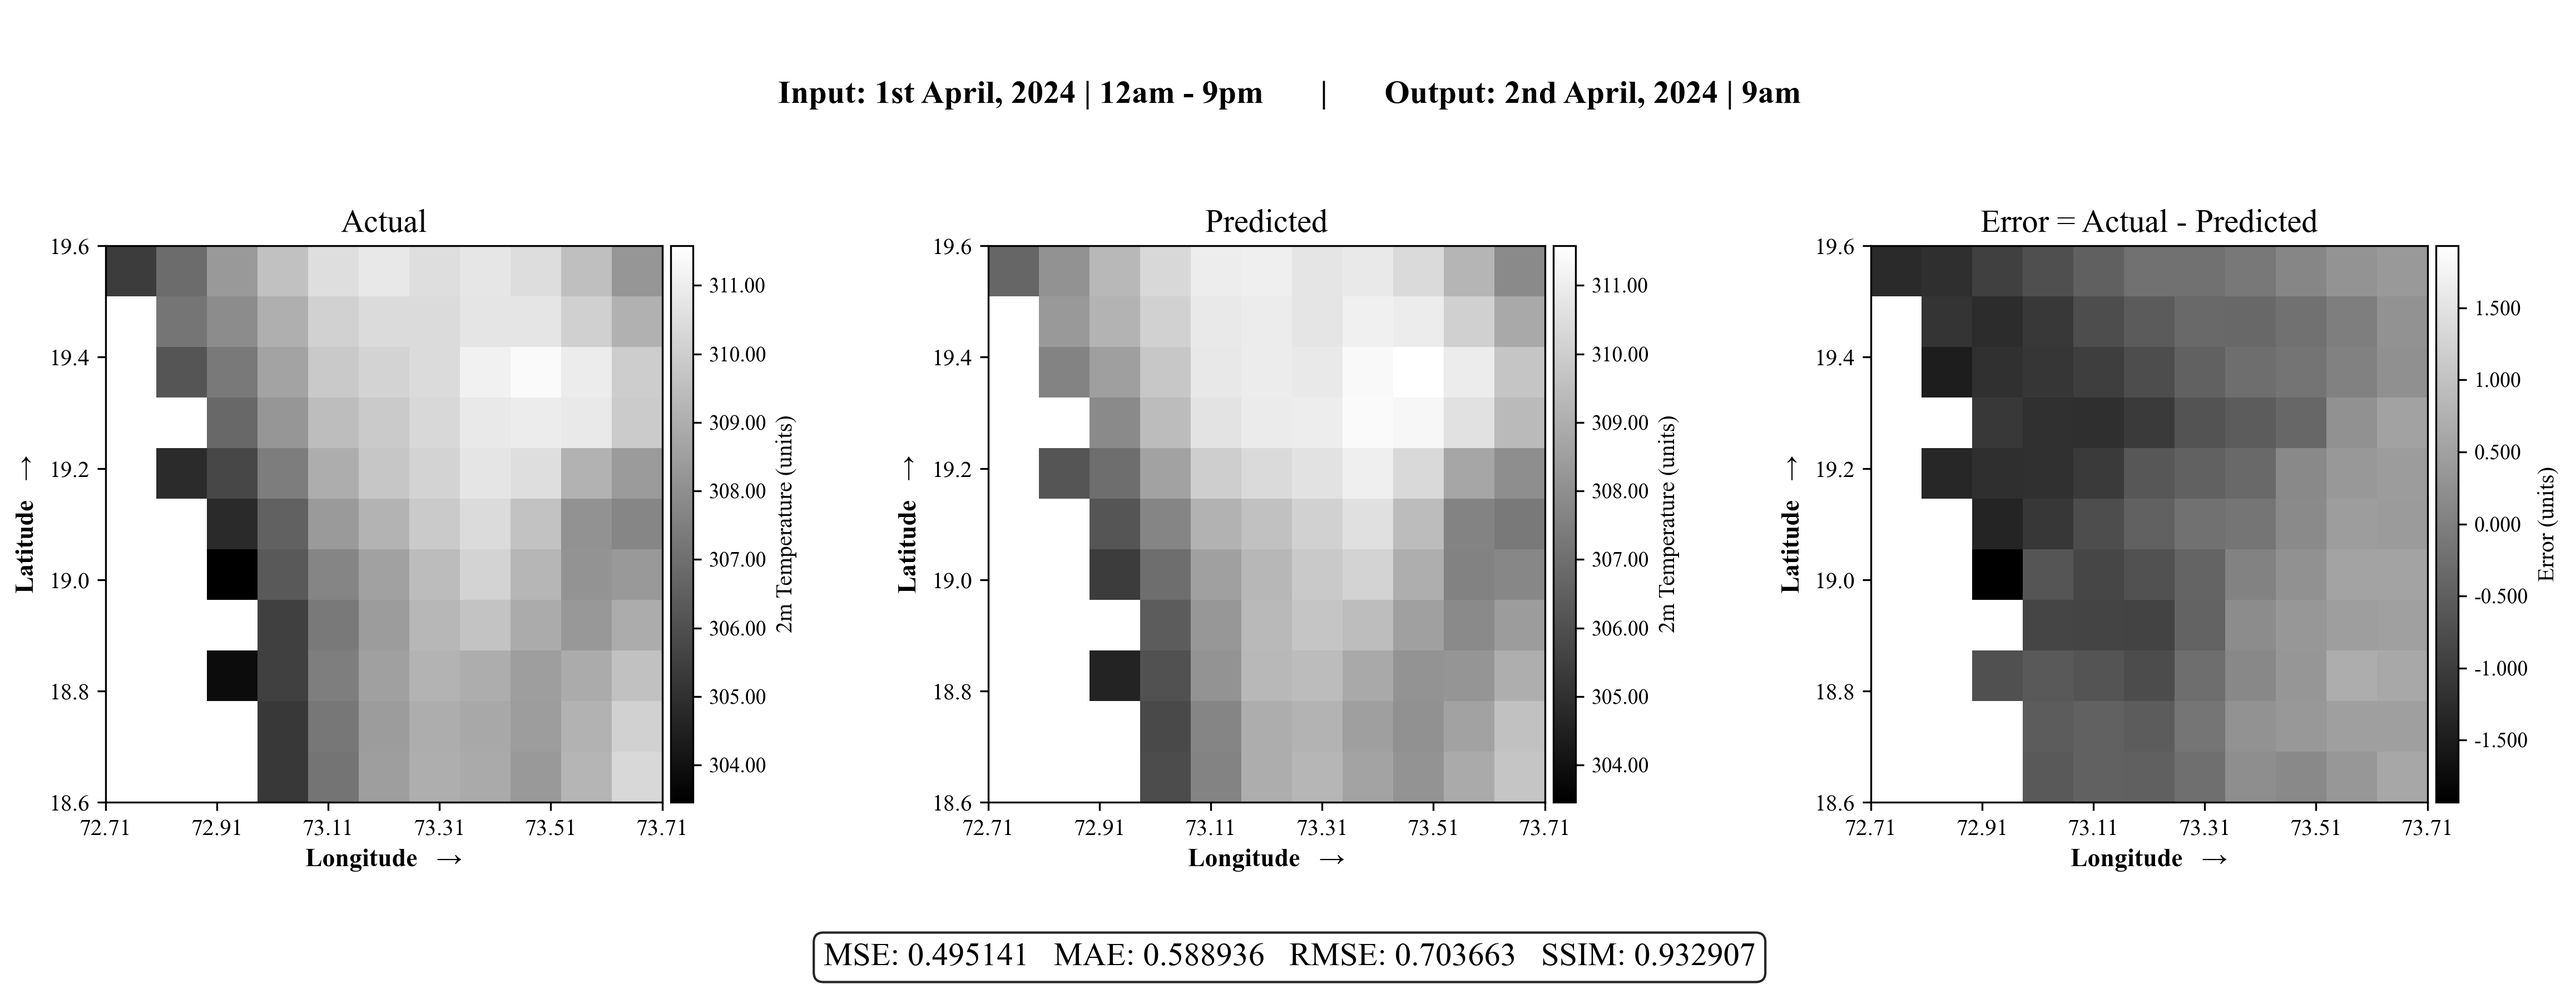
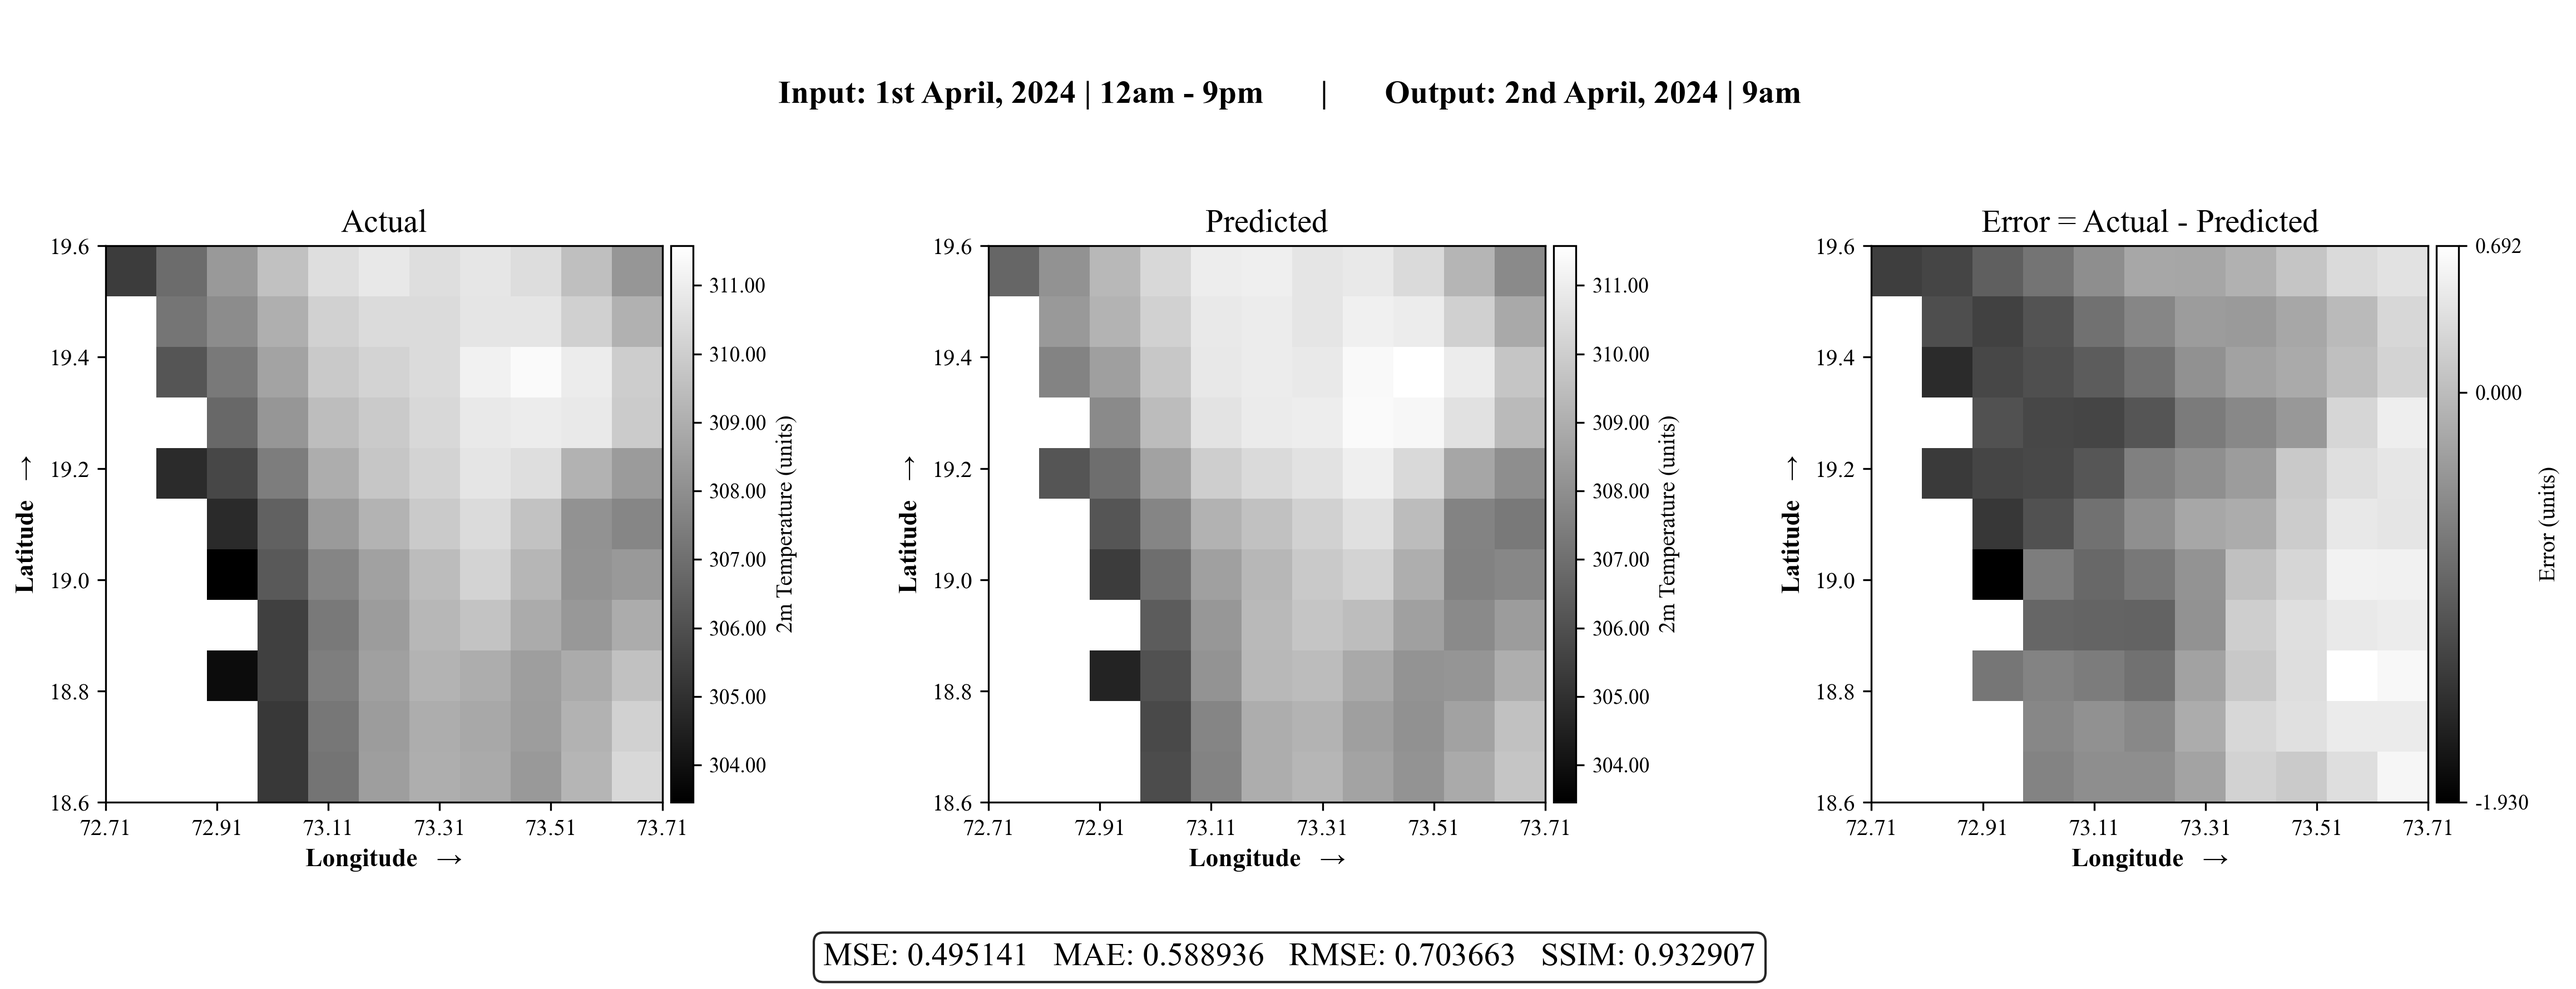
Changed output plot format

diff --git a/Models/ConvLSTM_Sliding_v1/ConvLSTM_Sliding_v1.py b/Models/ConvLSTM_Sliding_v1/ConvLSTM_Sliding_v1.py
@@ -1,4 +1,4 @@
-# improved_conv_lstm_sampled_with_ssim_on_plot.py
+# improved_conv_lstm_sampled_with_ssim_on_plot_error_cbar_min_zero_max.py
 import os
 import numpy as np
 from netCDF4 import Dataset
@@ -462,7 +462,9 @@ if preds.size:
     # compute SSIM averaged over validation samples (land-only via sea fill trick)
     mean_ssim_val = compute_mean_ssim(preds, actuals, dataset.sea_mask)
     if mean_ssim_val is None:
-        print("Model VAL SSIM (land-only): SSIM not computed (scikit-image missing or no preds).")
+        print(
+            "Model VAL SSIM (land-only): SSIM not computed (scikit-image missing or no preds)."
+        )
     else:
         print(f"Model VAL SSIM (land-only): SSIM={mean_ssim_val:.6f}")
 else:
@@ -506,7 +508,9 @@ if pers_preds.size:
     # SSIM for persistence baseline (land-only)
     mean_ssim_pers = compute_mean_ssim(pers_preds, pers_actuals, dataset.sea_mask)
     if mean_ssim_pers is None:
-        print("Persistence VAL SSIM (land-only): SSIM not computed (scikit-image missing or no preds).")
+        print(
+            "Persistence VAL SSIM (land-only): SSIM not computed (scikit-image missing or no preds)."
+        )
     else:
         print(f"Persistence VAL SSIM (land-only): SSIM={mean_ssim_pers:.6f}")
 else:
@@ -557,7 +561,9 @@ if preds.size:
     # SSIM for bias-corrected preds (land-only)
     mean_ssim_corr = compute_mean_ssim(preds_corrected, actuals, dataset.sea_mask)
     if mean_ssim_corr is None:
-        print("Bias-corrected VAL SSIM (land-only): SSIM not computed (scikit-image missing or no preds).")
+        print(
+            "Bias-corrected VAL SSIM (land-only): SSIM not computed (scikit-image missing or no preds)."
+        )
     else:
         print(f"Bias-corrected VAL SSIM (land-only): SSIM={mean_ssim_corr:.6f}")
 else:
@@ -677,13 +683,16 @@ try:
     pbc = pred_sample_bc.astype(np.float64).copy()
     pbc[mask] = a[mask]
     s_sample_bc = float(ssim_fn(a, pbc, data_range=dr))
-    print(f"Sample SSIM (land-only): BEFORE BC SSIM={s_sample:.6f}   AFTER BC SSIM={s_sample_bc:.6f}")
+    print(
+        f"Sample SSIM (land-only): BEFORE BC SSIM={s_sample:.6f}   AFTER BC SSIM={s_sample_bc:.6f}"
+    )
 except Exception:
     s_sample = float("nan")
     s_sample_bc = float("nan")
     print(
         "Sample SSIM not computed (scikit-image missing). Install scikit-image to enable SSIM computation."
     )
+
 
 # ----------------- lat/lon and plotting ---------------
 def find_first_nc(folder):
@@ -738,7 +747,26 @@ if combined.size == 0:
     raise RuntimeError("No valid land pixels to plot.")
 vmin = float(np.nanmin(combined))
 vmax = float(np.nanmax(combined))
-err_abs = float(np.nanmax(np.abs((actual_masked - pred_masked).filled(0.0))))
+
+# --- NEW: compute actual error vmin/vmax and ticks (min, zero if inside range, max) ---
+err_arr = (actual_masked - pred_masked).filled(np.nan)
+err_flat = err_arr[~np.isnan(err_arr)]
+if err_flat.size == 0:
+    # fallback to symmetric tiny range
+    err_vmin = -1e-6
+    err_vmax = 1e-6
+    ticks = [0.0]
+else:
+    err_vmin = float(np.min(err_flat))
+    err_vmax = float(np.max(err_flat))
+    # Build ticks: include min and max; include 0.0 only if it's strictly inside (vmin, vmax)
+    ticks = [err_vmin]
+    if err_vmin < 0.0 < err_vmax:
+        ticks.append(0.0)
+    if err_vmax != err_vmin:
+        ticks.append(err_vmax)
+    # ensure sorted unique
+    ticks = sorted(list(dict.fromkeys(ticks)))
 
 fig, axes = plt.subplots(1, 3, figsize=(16, 6))
 fig.suptitle(
@@ -783,8 +811,8 @@ im2 = axes[2].imshow(
     origin=origin,
     extent=extent,
     cmap=cmap_err,
-    vmin=-err_abs,
-    vmax=err_abs,
+    vmin=err_vmin,
+    vmax=err_vmax,
     interpolation="nearest",
 )
 axes[2].set_title("Error = Actual - Predicted", fontsize=14)
@@ -799,16 +827,17 @@ for ax, im in zip(axes, [im0, im1, im2]):
     cbar = fig.colorbar(im, cax=cax)
     cbar.ax.tick_params(labelsize=9)
     if im is im2:
+        # For the error colorbar: show only min, zero (if inside range), and max
         cbar.set_label("Error (units)", fontsize=10)
-        pretty_cb(cbar, fmt="%.3f")
+        # set ticks we computed above and format labels with 3 decimal places
+        cbar.set_ticks(ticks)
+        cbar.set_ticklabels([f"{t:.3f}" for t in ticks])
     else:
         cbar.set_label("2m Temperature (units)", fontsize=10)
         pretty_cb(cbar, fmt="%.2f")
 
 # include SSIM (sample) beside RMSE in the plotted metrics
-metrics_text = (
-    f"MSE: {mse_sample:.6f}   MAE: {mae_sample:.6f}   RMSE: {rmse_sample:.6f}   SSIM: {s_sample:.6f}"
-)
+metrics_text = f"MSE: {mse_sample:.6f}   MAE: {mae_sample:.6f}   RMSE: {rmse_sample:.6f}   SSIM: {s_sample:.6f}"
 # reserve more space at the bottom for the metrics (increase bottom from 0.05 -> 0.15)
 plt.tight_layout(rect=[0, 0.15, 1, 0.94])
 
